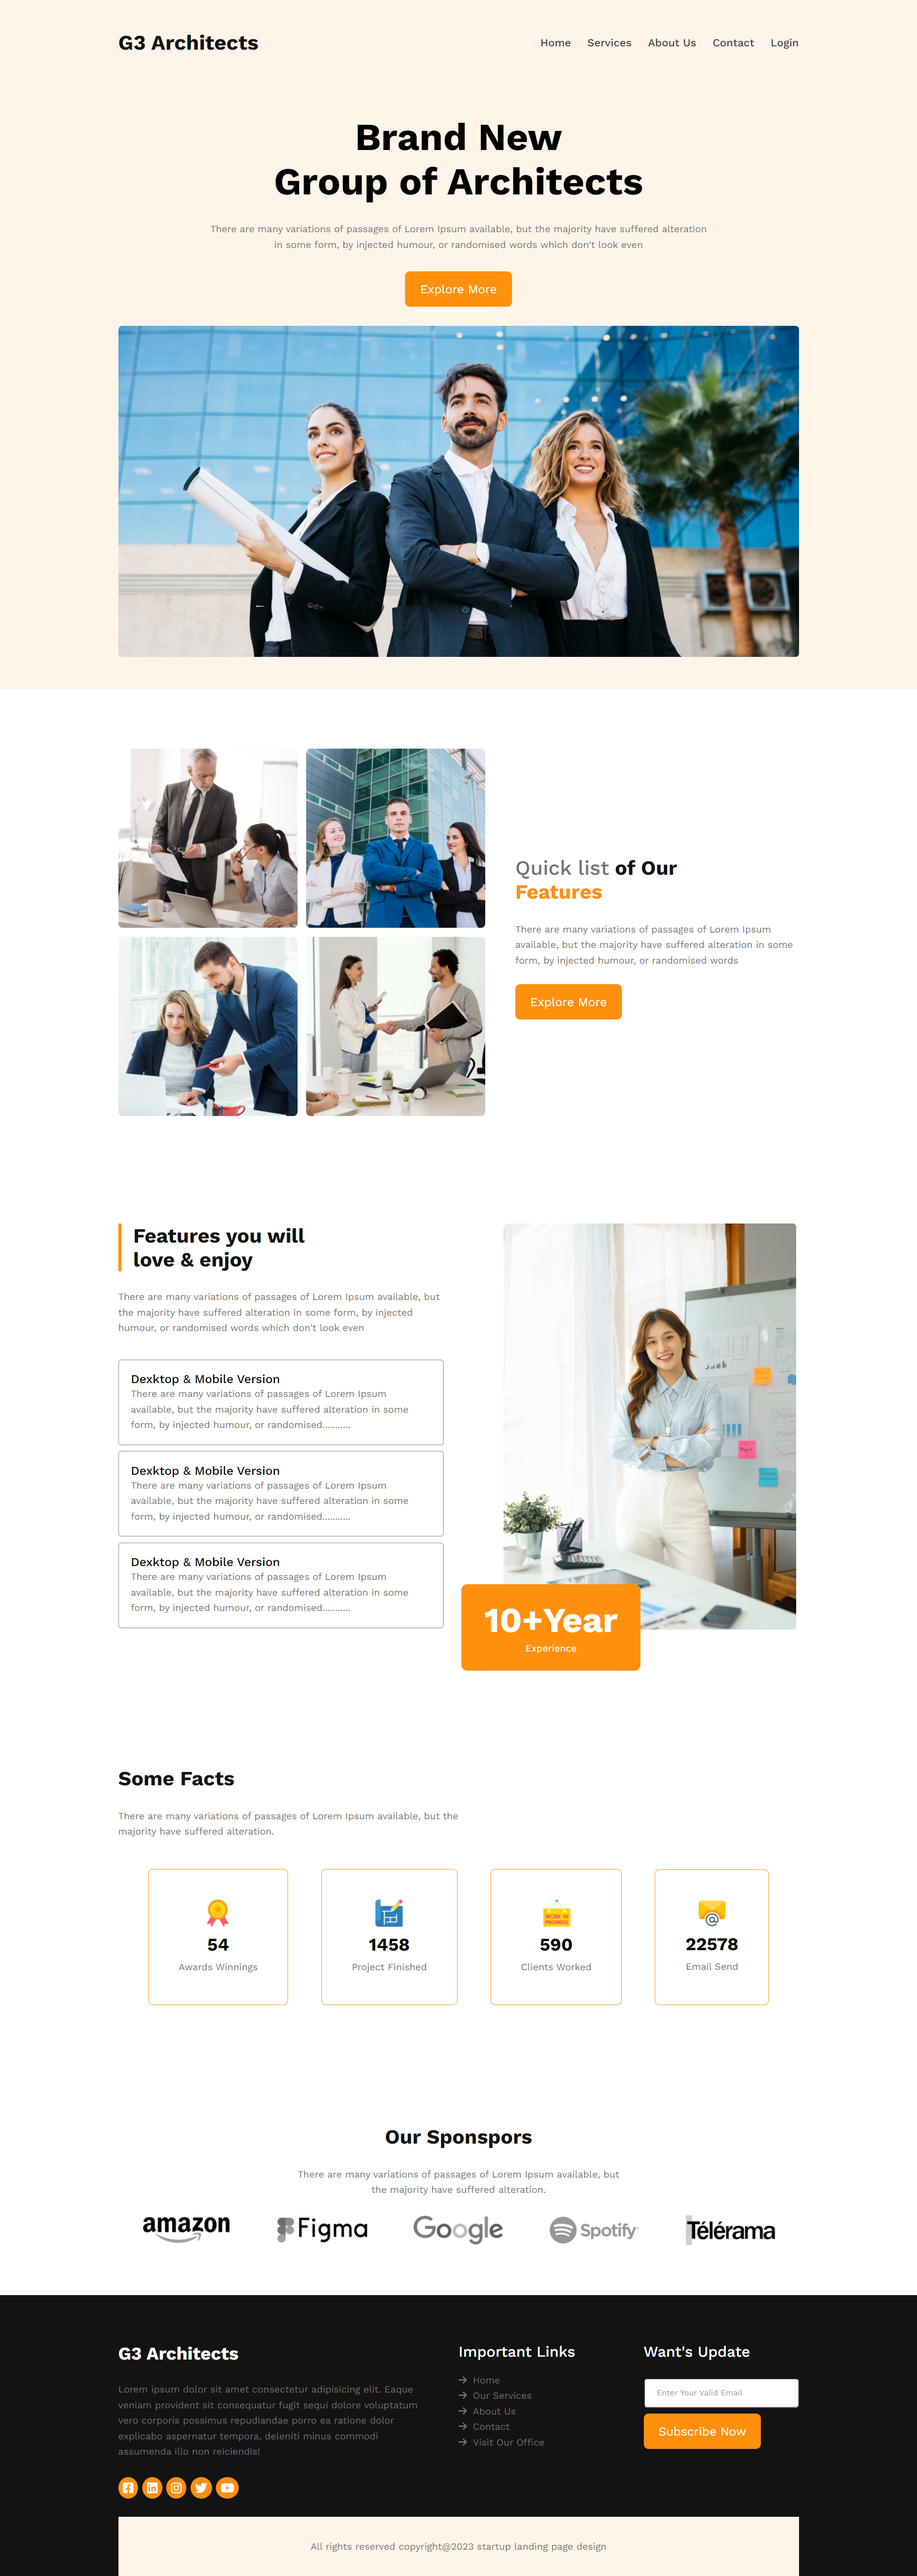
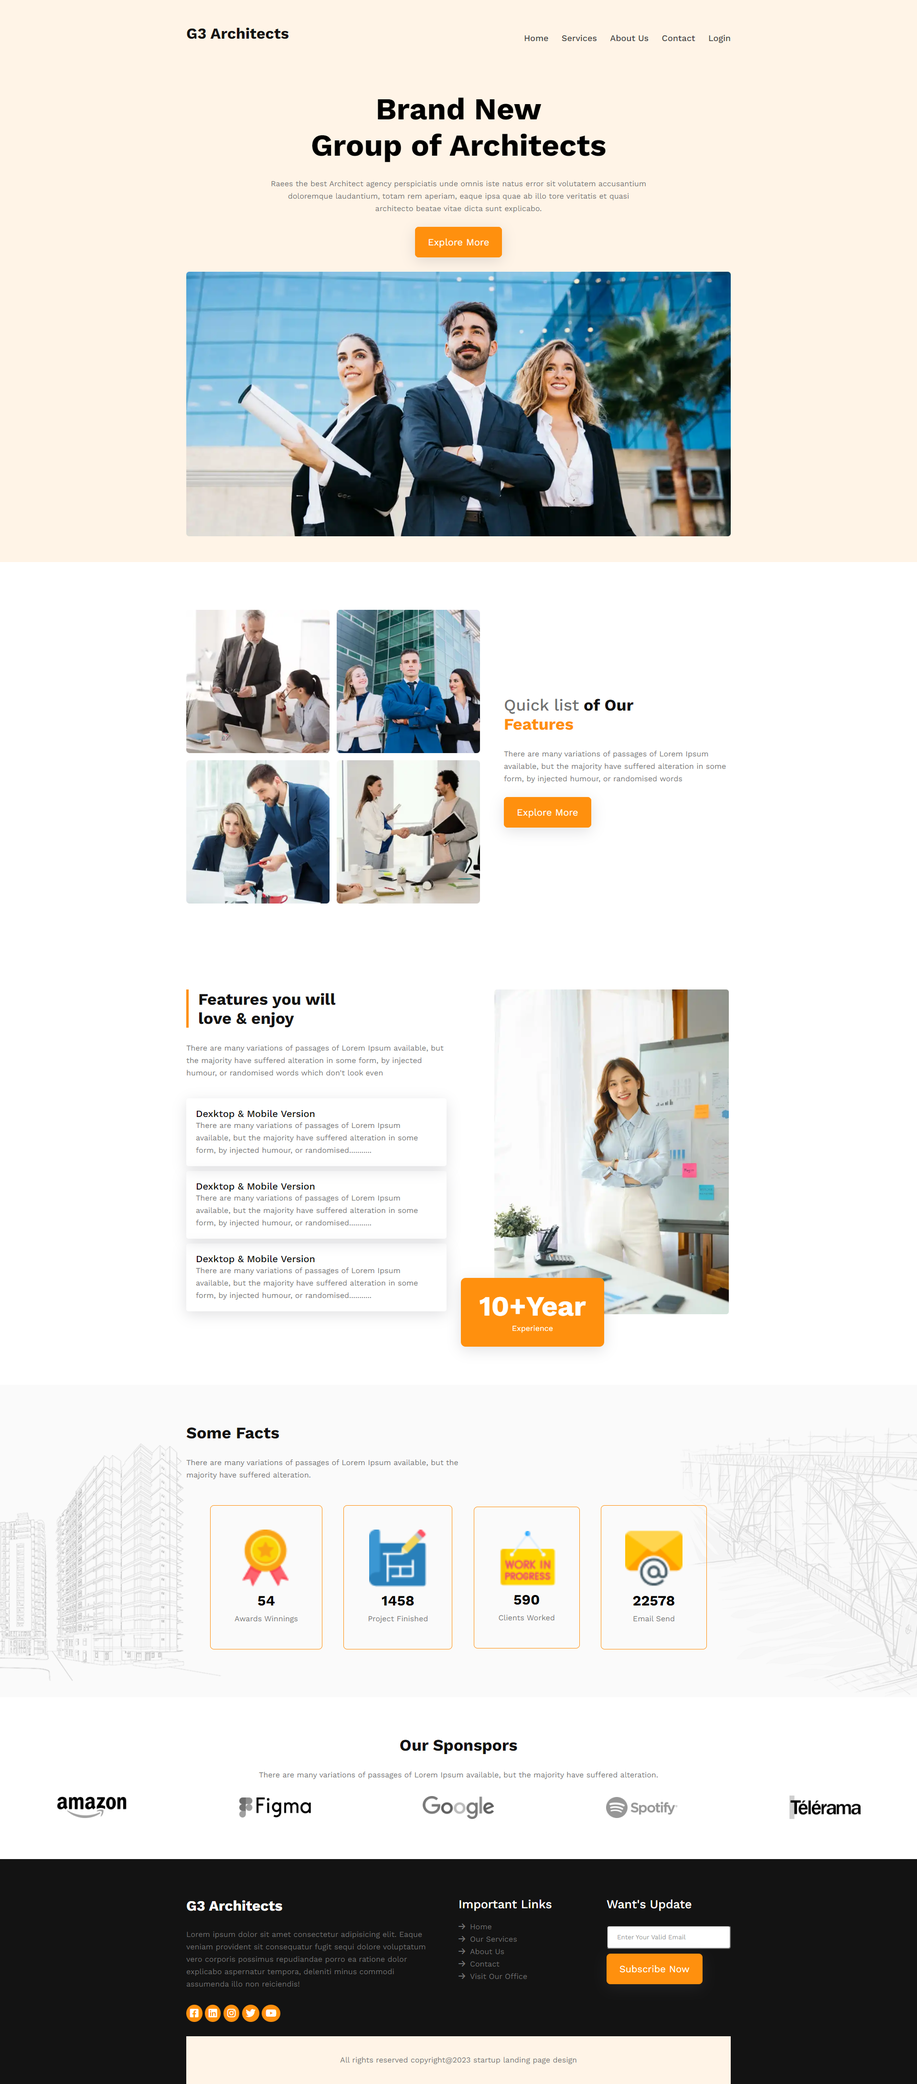
adding some real content

diff --git a/index.html b/index.html
@@ -39,9 +39,8 @@
         <!-- Hero Section Start Here  -->
         <div class="hero__section container">
             <h1>Brand New <br>Group of Architects</h1>
-            <p>Raees the best Architect agency perspiciatis unde omnis iste natus error sit volutatem accusantium
-                doloremque laudantium, totam rem aperiam, eaque ipsa quae ab illo tore veritatis et quasi architecto
-                beatae vitae dicta sunt explicabo.</p>
+            <p>We have been building architecturally driven homes that meet the highest standards of
+                craftsmanship, durability, efficiency and comfort.</p>
             <a class="primary__btn" href="#">Explore More</a>
             <img src="./images/banner.webp" alt="Hero Banner">
         </div>
@@ -63,8 +62,9 @@
                 <h2 class="sub__header"><span class="dark_text_header">Quick list</span> of Our <br>
                     <span class="color__text"> Features</span>
                 </h2>
-                <p>There are many variations of passages of Lorem Ipsum available, but the majority have suffered
-                    alteration in some form, by injected humour, or randomised words</p>
+                <p>Due to varying requirements from city to city for permits, we assign a designated in-home remodeling
+                    specialist to assist you with planning your room additions, bathroom, pool or deck projects based on
+                    your specific needs.</p>
                 <a class="primary__btn" href="#">Explore More</a>
             </div>
         </section>
@@ -74,27 +74,31 @@
         <section class="share__experience pt container">
             <div class="experience__info">
                 <h2 class="sub__header">Features you will love & enjoy</h2>
-                <p>There are many variations of passages of Lorem Ipsum available, but the majority have suffered
-                    alteration in some form, by injected humour, or randomised words which don't look even</p>
+                <p>Due to varying requirements from city to city for permits, we assign a designated in-home remodeling
+                    specialist to assist you with planning your room additions, bathroom, pool or deck projects based on
+                    your specific needs.</p>
                 <div class="experience__details">
                     <div class="experience__info_sub__header">
-                        <h3>Dexktop & Mobile Version</h3>
-                        <p>There are many variations of passages of Lorem Ipsum available, but the majority have
-                            suffered
-                            alteration in some form, by injected humour, or randomised...........</p>
+                        <h3>10+ Years in Business</h3>
+                        <p>Our team of Certified Remodeling Consultants, Project Managers and trades professionals
+                            handles your project.
+                        </p>
                     </div>
                     <div class="experience__info_sub__header">
-                        <h3>Dexktop & Mobile Version</h3>
-                        <p>There are many variations of passages of Lorem Ipsum available, but the majority have
-                            suffered
-                            alteration in some form, by injected humour, or randomised...........</p>
+                        <h3>Licensed & Insured</h3>
+                        <p>Fully Licensed General Contractor. We carry a $15,000 bond and $1,000,000 Liability
+                            Insurance.</p>
                     </div>
                     <div class="experience__info_sub__header">
-                        <h3>Dexktop & Mobile Version</h3>
-                        <p>There are many variations of passages of Lorem Ipsum available, but the majority have
-                            suffered
-                            alteration in some form, by injected humour, or randomised...........</p>
+                        <h3>Service Warranty</h3>
+                        <p>We have an unprecedented 1-year warranty on all the labor we do</p>
                     </div>
+                    <div class="experience__info_sub__header">
+                        <h3>On-Time & On-Budget</h3>
+                        <p>We deliver on-time and on-budget quality construction work and are always mindful of your
+                            budget.</p>
+                    </div>
+
                 </div>
             </div>
             <div class="experience__img">
@@ -114,9 +118,7 @@
             <div class="container pt pb">
                 <h2 class="sub__header">Some Facts</h2>
                 <p class="some__facts_text">There are many variations of passages of Lorem Ipsum available, but the
-                    majority
-                    have suffered
-                    alteration.</p>
+                    majority have suffered alteration.</p>
                 <!-- Counter Box start  -->
                 <div class="facts__counter">
                     <div class="counter__box">
@@ -148,8 +150,8 @@
         <section class="partners pt">
             <div class="partners__heading">
                 <h2 class="sub__header">Our Sponspors</h2>
-                <p>There are many variations of passages of Lorem Ipsum available, but the majority have suffered
-                    alteration.</p>
+                <p>Our approach to sustainability ensures we act in a socially responsible and environmentally
+                    respectful manner and that we continually measure, evaluate and increase sustainability efforts.</p>
             </div>
             <div class="our__sponsors">
                 <div class="sponsorship__logo"><img src="./images/sponsors/amazon.png" alt=""></div>

diff --git a/style.css b/style.css
@@ -562,9 +562,14 @@ input[type=email]:focus {
         display: grid;
         grid-template-columns: repeat(3, 1fr);
         gap: 20px;
-
         padding: 10px;
         margin-bottom: 50px;
+    }
+
+    .partners__heading p {
+        width: 100%;
+        padding-left: 15px;
+        padding-right: 15px;
     }
 
     .sponsorship__logo img {
